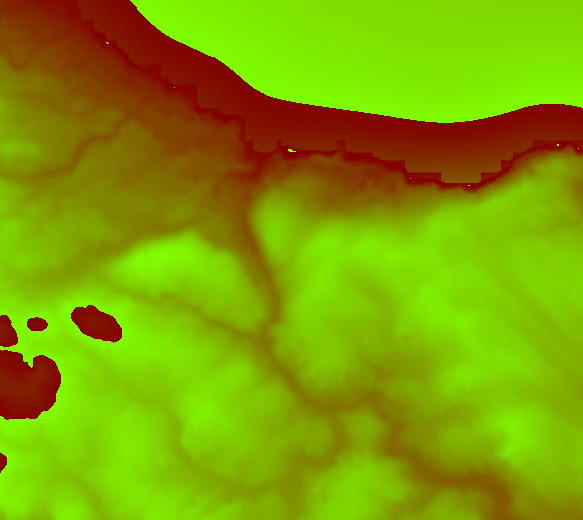
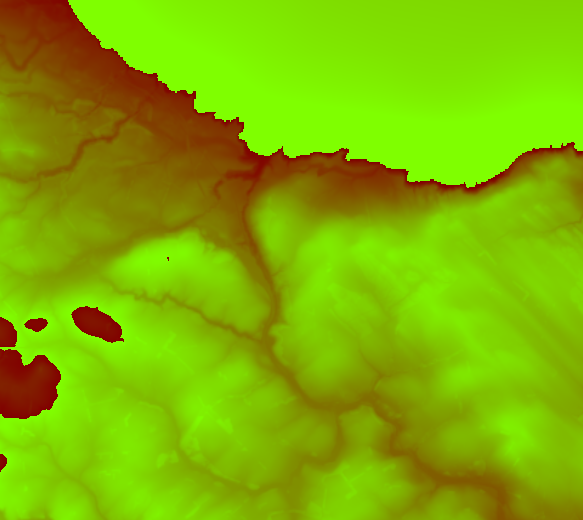
Geology: Hutton's short life, Siccar Point coast and folded grey beds; Didactics 0.17.2
- Lesson 4 introduces James Hutton properly, with a bio card (new bio
  still: portrait, dates, a few lines); lessons 1 and 7 point back to it,
  and lesson D1 says Charles Hutton is no relation.
- Siccar Point map: the Terrain Tiles blend coarse bathymetry into the
  coast, which drew a stair-stepped shelf of fake land offshore. relief.mjs
  gains --coast (land from Copernicus GLO-30, sea held below sea level);
  siccar relief rebuilt with it.
- Unconformity timeline: the grey beds fold into tight upright folds with
  limbs near 80 degrees instead of turning as one block, and stage 5 tips
  the pile so the red sandstone dips gently out to sea, as at the cliff.
- All courses pinned to Didactics 0.17.2 (plainer quiz answer buttons).

Claude-Session: https://claude.ai/code/session_01GkWVMy1SWBHRaCAzHbV6RE

diff --git a/courses/geology/src/figures/siccar.ts b/courses/geology/src/figures/siccar.ts
@@ -41,6 +41,21 @@ function sayYears(years: number): string {
 /** The mountain profile pushed up in stage 2, as heights above the base line at x. */
 const ridge = (x: number) => 52 * Math.exp(-(((x - 210) / 95) ** 2)) + 18 * Math.exp(-(((x - 90) / 50) ** 2));
 
+// The squeeze folds the grey beds rather than turning them as one block: a
+// train of tight upright folds whose limbs end up about 80 degrees from flat,
+// the beds thickened as the pile shortens. Rounded hinges, straight limbs.
+const FOLD_WAVE = 100; // px from one arch to the next
+const FOLD_LIMB = 80; // degrees
+const FOLD_AMP = (Math.tan((FOLD_LIMB * Math.PI) / 180) * FOLD_WAVE) / (4 * 0.98);
+const fold = (x: number) => (2 / Math.PI) * Math.asin(0.98 * Math.sin((2 * Math.PI * (x - 10)) / FOLD_WAVE));
+const BED = 9; // a grey bed's thickness before the squeeze
+const BED_SQUEEZED = 40; // its height measured straight up afterwards (about 7 px across a steep limb)
+
+// The red sandstone at Siccar Point dips gently out to sea; stage 5 tips the
+// whole pile that way (the sea is on the right) about the foot of today's cliff.
+const TIP = 12; // degrees
+const CLIFF = 206;
+
 export const unconformityFigure = figure(['story'], (ctx, t) => {
   const f = frame(W, H, 4);
   const id = `unc${++clipCount}`;
@@ -60,48 +75,62 @@ export const unconformityFigure = figure(['story'], (ctx, t) => {
     const d = ease(s - 3); // red beds
     const e = ease(s - 4); // tilt and wear
     const greyTop = FLOOR - 80 * a; // flat top of the grey pile while it builds
-    const plain = SEA + 52; // the worn-down plain
+    const plain = SEA - 2; // the worn-down plain, just above sea level: the red sand is river-laid
     // The grey rock's upper surface: flat, then pushed up, then worn to the plain.
     const greySurface = (x: number) => {
       const up = greyTop - b * (greyTop - (SEA - 4) + ridge(x));
       return up + c * (plain - up);
     };
     const pts: string[] = [];
-    for (let x = 0; x <= W; x += 8) pts.push(`${x},${greySurface(x).toFixed(1)}`);
-    const greyPoly = `0,${H} ${pts.join(' ')} ${W},${H}`;
+    for (let x = -80; x <= W + 80; x += 8) pts.push(`${x},${greySurface(x).toFixed(1)}`);
+    // Wider and deeper than the panel, so no corner shows when stage 5 tips it.
+    const greyPoly = `-80,${H + 120} ${pts.join(' ')} ${W + 80},${H + 120}`;
     const redTop = plain - 46 * d;
+    // Today's ground, cut after the tip: the land, a cliff, and the shore platform under the sea.
+    const cut = (y: number) => (SEA - 120 + (y - SEA + 120) * e).toFixed(1);
     defs.replaceChildren(
       svg('clipPath', { id: `${id}g` }, svg('polygon', { points: greyPoly })),
-      svg('clipPath', { id: `${id}r` }, svg('rect', { x: 0, y: redTop, width: W, height: Math.max(0, plain - redTop) })),
-      // Today's ground: the tipped pile cut down to a cliff and a shore platform.
-      svg('clipPath', { id: `${id}n` }, svg('polygon', { points: e > 0 ? `0,${H} 0,${SEA - 30 + 60 * e} 170,${SEA - 26 + 58 * e} 215,${SEA + 2 + 46 * e} ${W},${SEA + 12 + 44 * e} ${W},${H}` : `0,0 ${W},0 ${W},${H} 0,${H}` })),
+      svg('clipPath', { id: `${id}r` }, svg('rect', { x: -60, y: redTop, width: W + 120, height: Math.max(0, plain - redTop) })),
+      svg('clipPath', { id: `${id}n` }, svg('polygon', { points: `0,${H} 0,${cut(SEA - 30)} 90,${cut(SEA - 33)} 170,${cut(SEA - 27)} ${CLIFF - 10},${cut(SEA - 24)} ${CLIFF},${cut(SEA + 3)} ${W},${cut(SEA + 12)} ${W},${H}` })),
     );
-    // Grey beds: horizontal stripes, turned toward vertical as they are squeezed.
-    const turn = b * 82;
+    // Grey beds: flat, then folded as they are squeezed.
+    const amp = FOLD_AMP * b;
+    const bed = BED + (BED_SQUEEZED - BED) * b;
+    const edge = (k: number, x: number) => FLOOR - k * bed - amp * fold(x);
     const grey: SVGElement[] = [];
-    for (let k = -30; k < 30; k++) {
-      grey.push(svg('rect', { x: -200, y: FLOOR - k * 9, width: 800, height: 9, fill: k % 2 ? '#8e979e' : '#a9b1b6' }));
+    const k0 = Math.floor((FLOOR - H - amp - 140) / bed);
+    const k1 = Math.ceil((FLOOR + amp + 60) / bed);
+    for (let k = k0; k < k1; k++) {
+      const top: string[] = [];
+      const bottom: string[] = [];
+      for (let x = -80; x <= W + 80; x += 2) {
+        top.push(`${x},${edge(k + 1, x).toFixed(1)}`);
+        bottom.unshift(`${x},${edge(k, x).toFixed(1)}`);
+      }
+      grey.push(svg('polygon', { points: `${top.join(' ')} ${bottom.join(' ')}`, fill: k % 2 ? '#8e979e' : '#a9b1b6' }));
     }
-    const greyGroup = svg('g', { 'clip-path': `url(#${id}g)` }, svg('g', { transform: `rotate(${turn} 200 ${FLOOR - 40})` }, ...grey));
+    const greyGroup = svg('g', { 'clip-path': `url(#${id}g)` }, ...grey);
     const red: SVGElement[] = [];
-    for (let k = 0; k < 8; k++) red.push(svg('rect', { x: 0, y: plain - (k + 1) * 6, width: W, height: 6, fill: k % 2 ? '#b45a3c' : '#c8704d' }));
+    for (let k = 0; k < 8; k++) red.push(svg('rect', { x: -60, y: plain - (k + 1) * 6, width: W + 120, height: 6, fill: k % 2 ? '#b45a3c' : '#c8704d' }));
     for (const p of pebbles) red.push(svg('circle', { cx: p.x, cy: plain - 2 - p.dy, r: p.r, fill: '#a9b1b6', stroke: '#6b737a', 'stroke-width': 0.5 }));
     const redGroup = svg('g', { 'clip-path': `url(#${id}r)` }, ...red);
-    const rock = svg('g', { transform: `rotate(${-12 * e} 200 ${plain})`, 'clip-path': `url(#${id}n)` }, greyGroup, redGroup);
+    const unc = d > 0 ? line(-60, plain, W + 60, plain, COL.heat, 1.6, { 'stroke-dasharray': '5 3' }) : null;
+    // Tipped as one, then cut to today's ground (the cut is not tipped).
+    const tip = TIP * e;
+    const rock = svg('g', { 'clip-path': `url(#${id}n)` }, svg('g', { transform: `rotate(${tip} ${CLIFF} ${plain})` }, greyGroup, redGroup, ...(unc ? [unc] : [])));
+    const uncY = (x: number) => plain + (x - CLIFF) * Math.tan((tip * Math.PI) / 180);
     const water = e > 0
-      ? svg('rect', { x: 215, y: SEA + 6, width: W - 215, height: H - SEA, fill: COL.water, opacity: 0.25 })
-      : svg('rect', { x: 0, y: SEA, width: W, height: H - SEA, fill: COL.water, opacity: s < 1 || (s >= 3 && s < 3.2) ? 0.22 : 0.1 });
-    const unc = d > 0 ? line(0, plain, W, plain, COL.heat, 1.6, { 'stroke-dasharray': '5 3', transform: `rotate(${-12 * e} 200 ${plain})` }) : null;
+      ? svg('rect', { x: CLIFF, y: SEA, width: W - CLIFF, height: H - SEA, fill: COL.water, opacity: 0.25 * e })
+      : svg('rect', { x: 0, y: SEA, width: W, height: H - SEA, fill: COL.water, opacity: s < 1 ? 0.22 : 0.1 });
     redraw(g,
       svg('rect', { width: W, height: H, fill: COL.paper }),
       water,
       rock,
-      unc,
       line(0, SEA, W, SEA, COL.water, 1, { 'stroke-dasharray': '2 3', opacity: 0.7 }),
       small(W - 6, SEA - 4, 'sea level', { anchor: 'end', fill: COL.water }),
-      d > 0.5 ? label(e > 0.5 ? 30 : 12, (e > 0.5 ? SEA - 10 + 60 * e : plain) - (e > 0.5 ? 0 : 14), 'red sandstone', { size: 'note', bold: true, fill: '#8a3a22', halo: COL.paper }) : null,
-      a > 0.3 ? label(12, H - 10, b > 0.5 ? 'grey beds, on end' : 'grey beds', { size: 'note', bold: true, fill: '#4e565c', halo: COL.paper }) : null,
-      d > 0.5 ? small(W - 6, (e > 0.5 ? plain + 20 : plain + 12), 'the unconformity', { anchor: 'end', fill: COL.heat, halo: COL.paper, bold: true }) : null,
+      d > 0.5 ? label(e > 0.5 ? 116 : 12, e > 0.5 ? SEA - 40 : redTop + 14, 'red sandstone', { size: 'note', bold: true, fill: '#8a3a22', halo: COL.paper }) : null,
+      a > 0.3 ? label(12, H - 10, b > 0.5 ? 'grey beds, folded on end' : 'grey beds', { size: 'note', bold: true, fill: '#4e565c', halo: COL.paper }) : null,
+      d > 0.5 ? small(W - 6, uncY(W - 6) + 12, 'the unconformity', { anchor: 'end', fill: COL.heat, halo: COL.paper, bold: true }) : null,
     );
     // Time taken so far at this rate: kilometres laid down or worn away.
     const mm = 10 ** rate;

diff --git a/courses/geology/src/figures/bio.ts b/courses/geology/src/figures/bio.ts
@@ -1,0 +1,50 @@
+// A short life of someone who comes up across the lessons: their portrait
+// beside their name, dates and a few lines on who they were.
+//
+//   { "type": "diagram", "id": "bio", "caption": "…", "options": {
+//       "photo": "hutton-portrait", "name": "James Hutton", "dates": "1726 to 1797",
+//       "role": "Edinburgh farmer, physician and chemist", "lines": ["…", "…"] } }
+
+import type { FigureFactory, Options } from 'didactics/figure';
+import { el } from 'didactics/dom';
+import { photoById, photoNode } from '../photos';
+
+const isText = (v: unknown): v is string => typeof v === 'string' && v.length > 0;
+
+const problems = (o: Options | undefined): string[] => {
+  if (!o) return ['needs "photo", "name", "dates" and "lines"'];
+  const out: string[] = [];
+  if (!isText(o.photo)) out.push('needs "photo", a photo id');
+  else if (!photoById(o.photo)) out.push(`no photo "${o.photo}"`);
+  if (!isText(o.name)) out.push('needs "name"');
+  if (!isText(o.dates)) out.push('needs "dates"');
+  if (o.role !== undefined && !isText(o.role)) out.push('"role" should be text');
+  if (!Array.isArray(o.lines) || !o.lines.length || !o.lines.every(isText)) out.push('needs "lines", a list of short sentences');
+  return out;
+};
+
+/** **bold** in a line, as it is in the lesson text. */
+const words = (text: string): (string | HTMLElement)[] =>
+  text.split(/\*\*(.+?)\*\*/).map((part, i) => (i % 2 ? el('strong', {}, part) : part));
+
+export const bioStill: FigureFactory = Object.assign(
+  (_ctx: unknown, _goal?: string, o?: Options) => {
+    const lines = (o?.lines as string[] | undefined) ?? [];
+    return {
+      node: el('div.fig-body.fig-still', {},
+        el('div.bio', {},
+          el('div.bio-head', {},
+            el('div.bio-face', {}, photoNode(String(o?.photo), { aspect: 0.84 })),
+            el('div.bio-title', {},
+              el('p.bio-name', {}, String(o?.name ?? '')),
+              el('p.bio-dates', {}, String(o?.dates ?? '')),
+              o?.role ? el('p.bio-role', {}, String(o.role)) : null,
+            ),
+          ),
+          el('ul.bio-lines', {}, ...lines.map((l) => el('li', {}, ...words(l)))),
+        ),
+      ),
+    };
+  },
+  { options: problems, each: true as const },
+);

diff --git a/courses/geology/src/styles/tokens.css b/courses/geology/src/styles/tokens.css
@@ -37,3 +37,16 @@
 
 .photo .credit { margin: 4px 14px 8px; font-size: 0.72rem; color: var(--ink-soft); }
 .photo .credit a { color: inherit; }
+
+/* A short life (figures/bio.ts): portrait beside name and dates, a few lines under them. */
+.bio { padding: 14px 16px 4px; }
+.bio-head { display: flex; gap: 14px; align-items: flex-end; margin-bottom: 10px; }
+.bio-face { flex: 0 0 auto; width: 112px; }
+.bio-face .photo img { border-radius: 6px; }
+.bio-face .photo .credit { margin: 3px 0 0; font-size: 0.66rem; line-height: 1.3; }
+.bio-title { flex: 1; min-width: 0; padding-bottom: 28px; }
+.bio-name { margin: 0; font-family: var(--display); font-size: 1.35rem; font-weight: 600; line-height: 1.15; color: var(--ink); }
+.bio-dates { margin: 4px 0 0; font-size: 0.9rem; color: var(--ink); }
+.bio-role { margin: 2px 0 0; font-size: 0.82rem; color: var(--ink-soft); }
+.bio-lines { margin: 0; padding-left: 1.1em; font-size: 0.92rem; line-height: 1.45; color: var(--ink); }
+.bio-lines li { margin: 0 0 6px; }

diff --git a/courses/geology/src/figures/index.ts b/courses/geology/src/figures/index.ts
@@ -10,6 +10,7 @@ import { columnsFigure, furnaceFigure } from './basalt';
 import { checkFigure } from './check';
 import { COL } from './kit';
 import { photoFigure } from './photo';
+import { bioStill } from './bio';
 import { duneFigure, sortFigure } from './dunes';
 import { correlateFigure, veesFigure } from './smith';
 import { cycleStill, unconformityFigure } from './siccar';
@@ -33,6 +34,7 @@ export const FIGURES: Readonly<Record<string, FigureFactory>> = {
   ...charts({ palette: COL, asset }),
   ...maps({ palette: COL, asset }),
   photo: photoFigure,
+  bio: bioStill,
   check: checkFigure,
   // Lesson 1
   tooth: toothStill,
